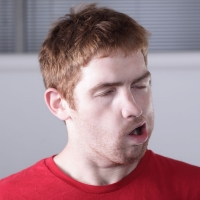
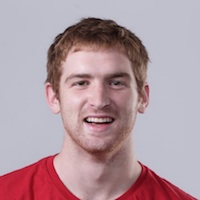
aaron's picutre and changd up some stuff

diff --git a/index.html b/index.html
@@ -35,16 +35,16 @@
                 <span class="icon-bar"></span>
                 <span class="icon-bar"></span>
               </button>
-              <a class="navbar-brand" href="#">TraceMe</a>
+              <a class="navbar-brand" href="#top">TraceMe</a>
             </div>
 
             <!-- Collect the nav links, forms, and other content for toggling -->
             <div class="collapse navbar-collapse" id="bs-example-navbar-collapse-1">
               <ul class="nav navbar-nav navbar-right">
-                <li><a href="#">About</a></li>
-                <li><a href="#">Features</a></li>
-                <li><a href="#">Creators</a></li>
-                <li><a href="#">Download</a></li>  
+                <li><a href="#about">About</a></li>
+                <li><a href="#screenshots">Screenshots</a></li>
+                <li><a href="#creators">Creators</a></li>
+                <li><a href="#download">Download</a></li>  
               </ul>
             </div><!-- /.navbar-collapse -->
           </div><!-- /.container-fluid -->
@@ -52,7 +52,7 @@
       
       
         <!--    Hero    -->
-        <div class="hero">
+        <div id="top" class="hero">
             <div class="container hero-info">
                 <div class="row">
                     <div class="col-lg-4 col-lg-offset-2 col-md-6 col-sm-6 hero-text">
@@ -69,7 +69,7 @@
         <div class="feature-sect">
             <div class="container">
                 <div class="row">
-                    <div class="section-title">Description</div>
+                    <div id="about" class="section-title">Description</div>
                     
                     <div class="tm-info">Trace Me is a game built on the Android Platform. In TraceMe users trace things as fast as they can to earn points, competing against their friends to trace qucikly and accurately. Features include multiple different levels, Facebook and Twitter Integration, Single and Multiplayer Modes, High Schores, and so much more. TraceMe is coming to the Play Store soon!</div>
                     
@@ -96,7 +96,7 @@
         </div>
             
         <!--    Screenshots    -->
-        <div class="screenshot-sect">
+        <div id="screenshots" class="screenshot-sect">
             <div class="container">
                 <div class="section-title">Screenshots</div>
                 <div class="row">
@@ -147,7 +147,7 @@
         </script>
 
         <!-- Creators -->
-        <div class="creator-sect">
+        <div id="creators" class="creator-sect">
             <div class="container">
                 <div class="row">
                     <div class="section-title">Creators</div>
@@ -155,21 +155,21 @@
 
                 <div class="row">
                     <div class="creator col-sm-4">
-                        <img class="creator-img" src="img/matt.jpg"/>
+                        <img class="creator-img" src="img/aaron.jpg"/>
                         <div class="name">Aaron V.</div>
-                        <div class="about">Aaron is an Android magician and a third year CS student at UT. He will be interning at Amazon on the falalalala team this summer. </div>
+                        <div class="about">Aaron is an Android magician and a third year CS student at UT. He will be interning at Amazon this summer in Seattle.</div>
                     </div>
                     
                      <div class="creator col-sm-4">
                         <img class="creator-img" src="img/matt.jpg"/>
                         <div class="name">Matthew E.</div>
-                        <div class="about">Matt is a third year CS student at UT. He will be interning at Yelp on the Search and Data Mining Team this summer.</div>
+                        <div class="about">Matt is a third year CS student at UT. He will be interning at Yelp on the Search and Data Mining Team this summer in San Francisco.</div>
                     </div>
 
                      <div class="creator col-sm-4">
                         <img class="creator-img" src="img/niko.jpg"/>
                         <div class="name">Niko L.</div>
-                        <div class="about">Niko is an Andoird Design wizard and a third year CS student at UT. He will be interning at Hubspot this summer doing cool things.</div>
+                        <div class="about">Niko is an Andoird Design wizard and a third year CS student at UT. He will be interning at Hubspot this summer in Boston.</div>
                     </div>
                 </div>
             </div>
@@ -177,7 +177,7 @@
       
       
         <!--    Source Code -->
-        <div class="creator-sect">
+        <div id="download" class="creator-sect">
             <div class="container">
                 <div class="row">
                     <div class="section-title">Download</div>

diff --git a/css/index.css b/css/index.css
@@ -133,7 +133,7 @@ nav {
 /*   Generic Section Stuff   */
 .section-title {
     font-size: 5em;
-    padding: 15px 0px;
+    padding: 40px 0px;
 }
 
 .dl-info {
